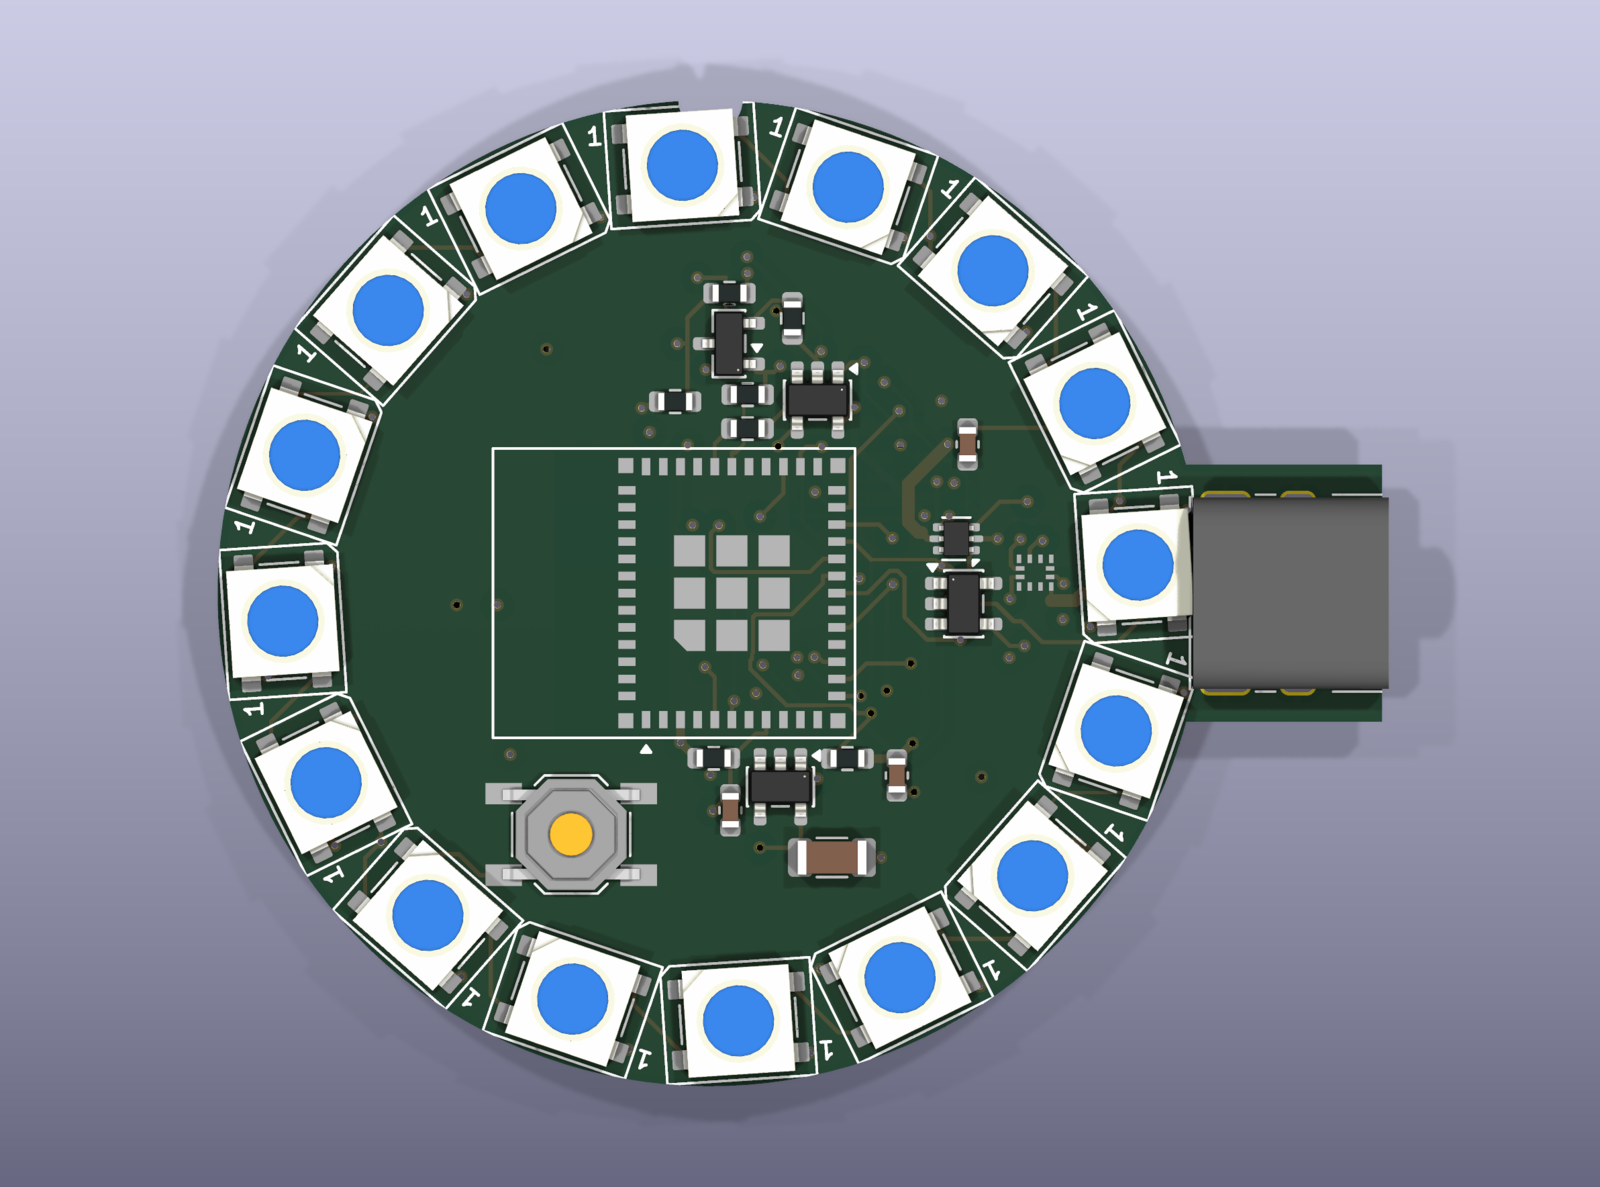
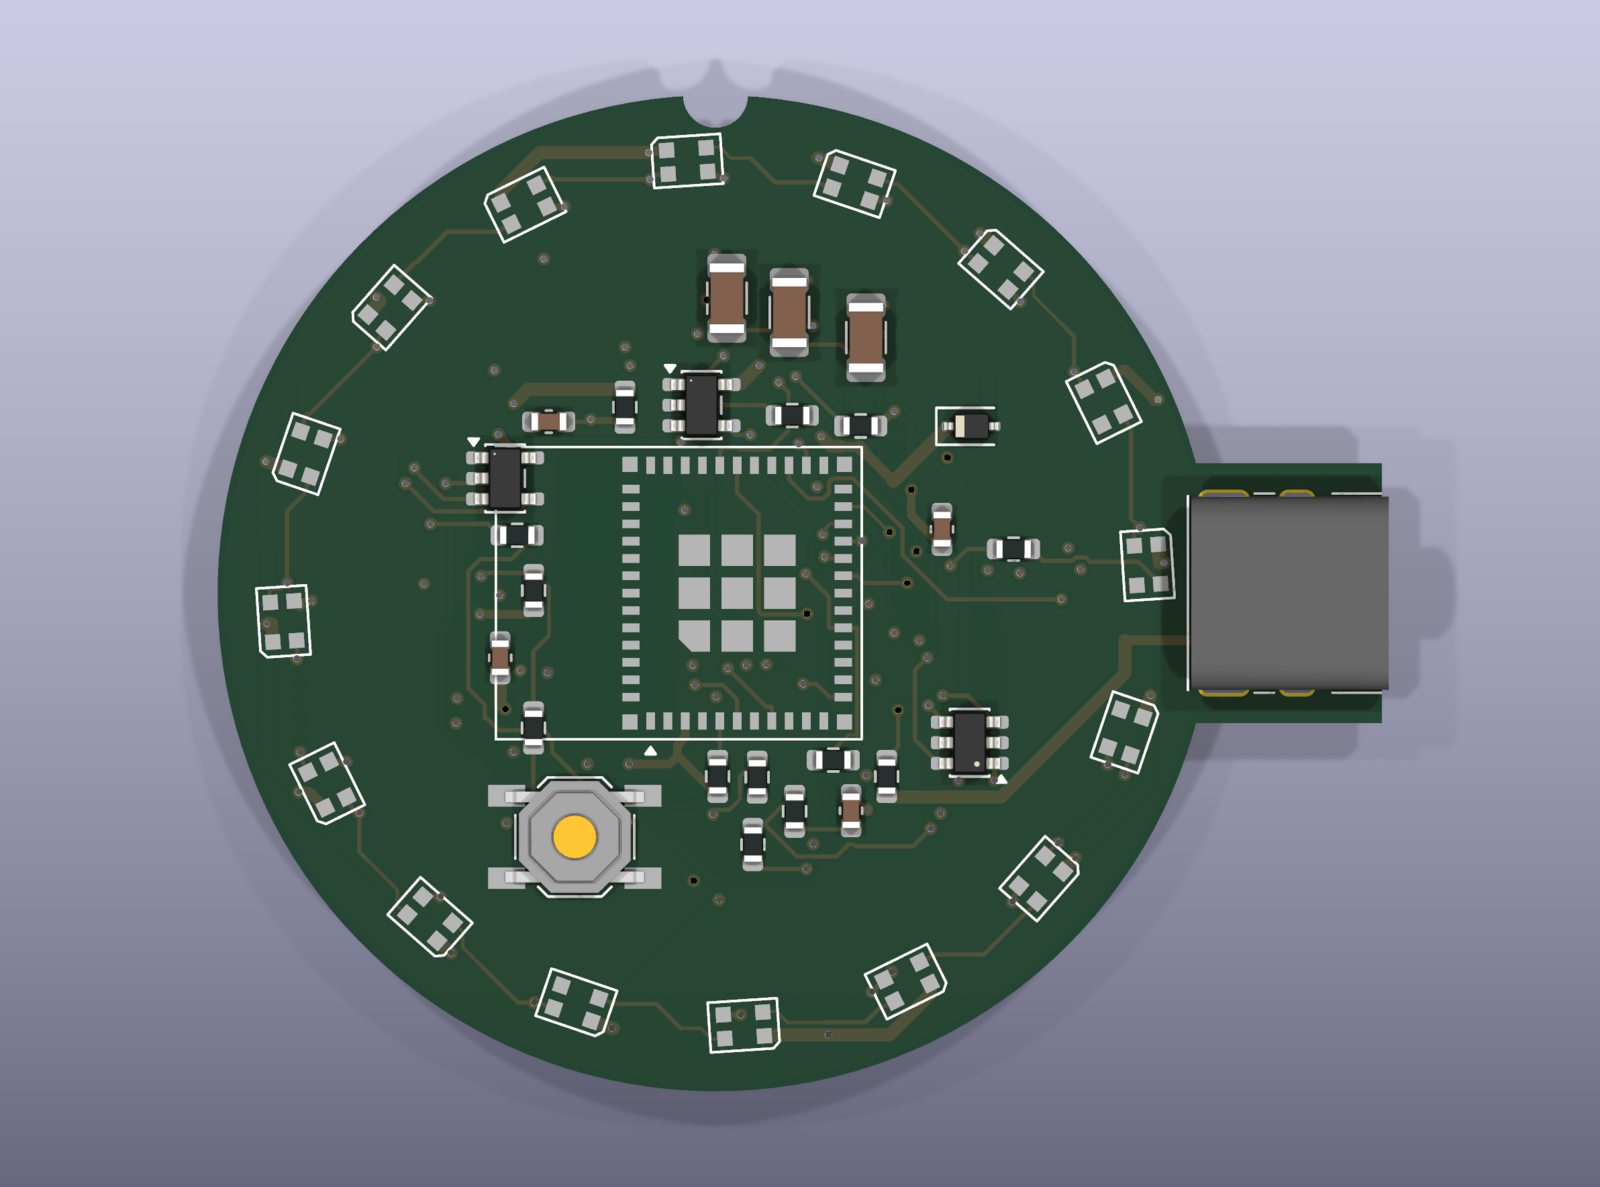
docs: README status, schematic, board and housing images refreshed; routed spike rerun with the AND gate and supply-pin protection; README render script for the housing views (HW-010, MECH-007, ADR-0014, ADR-0018)
Claude-Session: https://claude.ai/code/session_01NnNc9CXaSMwmsPGCK65UHv

Changed region(s): [[0.125, 0.0623, 0.8125, 0.9351]]

diff --git a/mech/analysis/render_views.py b/mech/analysis/render_views.py
@@ -1,0 +1,110 @@
+# SPDX-License-Identifier: Apache-2.0
+"""Draw README views of the housing model from the mesh JSON (matplotlib, Agg backend).
+
+Usage: python3 -I render_views.py <mesh.json> <out dir>
+Output: housing-model-exploded.png (isometric, lid lifted, accessory below) and
+housing-model-back.png (view of the back: bayonet groove with lips, label centre open).
+Tool output only; the images show the generated model, not a photo or a hand drawing.
+"""
+
+import json
+import sys
+from pathlib import Path
+
+import matplotlib
+
+matplotlib.use("Agg")
+import matplotlib.pyplot as plt  # noqa: E402
+import numpy as np  # noqa: E402
+from matplotlib.collections import PolyCollection  # noqa: E402
+
+COLORS = {"base": (0.35, 0.37, 0.40), "lid": (0.55, 0.75, 0.95), "accessory": (0.85, 0.55, 0.25)}
+LIGHT = np.array([0.4, -0.5, 0.75])  # fixed light direction
+LIGHT = LIGHT / np.linalg.norm(LIGHT)
+
+
+def subdivide(tri, max_edge):
+    """Split triangles until every edge is shorter than max_edge (keeps the painter order right)."""
+    while True:
+        e = np.max(
+            [np.linalg.norm(tri[:, i] - tri[:, (i + 1) % 3], axis=1) for i in range(3)], axis=0
+        )
+        big = e > max_edge
+        if not big.any():
+            return tri
+        keep, split = tri[~big], tri[big]
+        a, b, c = split[:, 0], split[:, 1], split[:, 2]
+        ab, bc, ca = (a + b) / 2, (b + c) / 2, (c + a) / 2
+        new = np.concatenate(
+            [np.stack(x, axis=1) for x in ((a, ab, ca), (ab, b, bc), (ca, bc, c), (ab, bc, ca))]
+        )
+        tri = np.concatenate([keep, new])
+
+
+def camera(elev, azim):
+    """Orthographic camera: returns (right, up, toward-viewer) unit vectors."""
+    el, az = np.radians(elev), np.radians(azim)
+    toward = np.array([np.cos(el) * np.cos(az), np.cos(el) * np.sin(az), np.sin(el)])
+    right = np.cross([0, 0, 1], toward)
+    right /= np.linalg.norm(right)
+    up = np.cross(toward, right)
+    return right, up, toward
+
+
+def draw(meshes, placed, path, view):
+    """view = (elevation, azimuth, title, light direction)."""
+    elev, azim, title, light = view
+    right, up, toward = camera(elev, azim)
+    polys, depth, cols = [], [], []
+    for name, (dx, dz) in placed.items():
+        v = np.array(meshes[name]["v"], dtype=float)
+        v[:, 0] += dx
+        v[:, 2] += dz
+        tri = subdivide(v[np.array(meshes[name]["t"])], 3.0)
+        n = np.cross(tri[:, 1] - tri[:, 0], tri[:, 2] - tri[:, 0])
+        n /= np.linalg.norm(n, axis=1, keepdims=True) + 1e-12
+        n *= np.sign(np.sum(n * toward, axis=1, keepdims=True) + 1e-12)  # two-sided light
+        shade = 0.35 + 0.65 * np.clip(n @ light, 0, 1)
+        centre = tri.mean(axis=1)
+        polys.append(np.stack([tri @ right, tri @ up], axis=-1))
+        depth.append(centre @ toward)
+        cols.append(np.clip(shade[:, None] * np.array(COLORS[name])[None, :] * 1.2, 0, 1))
+    polys, depth, cols = np.concatenate(polys), np.concatenate(depth), np.concatenate(cols)
+    order = np.argsort(depth)
+    fig, ax = plt.subplots(figsize=(8, 6), dpi=150)
+    ax.add_collection(
+        PolyCollection(polys[order], facecolors=cols[order], edgecolors=cols[order], lw=0.2)
+    )
+    ax.autoscale()
+    ax.set_aspect("equal")
+    ax.set_axis_off()
+    ax.set_title(title, fontsize=9)
+    fig.savefig(path, bbox_inches="tight", facecolor="white")
+    plt.close(fig)
+
+
+def main(argv):
+    mesh = json.loads(Path(argv[1]).read_text())
+    out = Path(argv[2])
+    out.mkdir(parents=True, exist_ok=True)
+    title = "Housing model, exploded: lid, base, accessory ring (generated by FreeCAD script)"
+    draw(
+        mesh,
+        {"base": (0, 0), "lid": (0, 12), "accessory": (0, -8)},
+        out / "housing-model-exploded.png",
+        (25, -60, title, LIGHT),
+    )
+    title = (
+        "Back of the base: bayonet groove with entry sectors, lips and stops (label centre open)"
+    )
+    draw(
+        mesh,
+        {"base": (0, 0)},
+        out / "housing-model-back.png",
+        (-60, -90, title, LIGHT * np.array([1, 1, -1])),
+    )
+    print("render: wrote", out)
+
+
+if __name__ == "__main__":
+    main(sys.argv)

diff --git a/hw/kicad/spike-gate/src/layout_full.py b/hw/kicad/spike-gate/src/layout_full.py
@@ -153,9 +153,9 @@ PLACE = {
     "SW1": (174.0, 190.0, 0),
     "U10": (158.0, 232.0, 0), "U11": (158.0, 266.0, 0), "R11": (138.0, 269.81, 0),
     "R10": (203.0, 190.0, 90), "C4": (206.0, 205.0, 0),
-    "R_SU1": (302.0, 140.0, 90), "C26": (312.0, 146.0, 0), "DZ1": (322.0, 146.0, 270),
-    "R_SU14": (302.0, 160.0, 90), "DZ14": (322.0, 166.0, 270),
-    "R_SU15": (302.0, 180.0, 90), "DZ15": (322.0, 186.0, 270),
+    "R_SU1": (290.0, 143.0, 90), "C26": (306.0, 149.0, 0), "DZ1": (316.0, 149.0, 270),
+    "R_SU14": (330.0, 143.0, 90), "DZ14": (346.0, 149.0, 270),
+    "R_SU15": (356.0, 143.0, 90), "DZ15": (372.0, 149.0, 270),
 }
 TEXT = {
     "J1": (-7.62, 26.0, "left"), "TVS1": (-3.81, -5.5, "left"), "U6": (6.0, 8.0, "left"),
@@ -335,8 +335,7 @@ def _build():
     s.caption("TPS3840DL40 is a candidate, not chosen", gx(38.1), 164.0, 1.27)
     s.caption("ESP32-C3-MINI-1 module (box uses GPIO names, module pin numbers not drawn)", 15, 172)
     s.caption("Button (HW-007; GPIO5 is not a strapping pin)", 128, 172)
-    s.caption("HOLD_OK is 5 V: buffered to 3.3 V for the MCU", 128, 211)
-    s.caption("OE tied to GND (symbol drawn pointing up)", 160.0, 215.5, 1.0)
+    s.caption("GATE_OK_RB = HOLD_OK AND FAULT_N (ADR-0018 option E); 3.3 V gate, inputs accept 5 V", 128, 211)
     s.caption("OE tied to GND (symbol drawn pointing up)", 160.0, 249.5, 1.0)
     s.caption("LED data: 5 V buffer (HW-002)", 128, 246)
     s.caption("16 LEDs as a chain; the ring geometry is a PCB matter (HW-001)", 200, 172)
@@ -663,7 +662,7 @@ def _build():
     s.pw("GND", ("U10", "3"), True)
 
     # ------------------------------------------------------------ supply-pin protection (HW-010 amendment)
-    s.caption("Supply pins with 6 V maximum (TUSB321, TMUX1101): series resistor, 100 nF, 5.1 V zener", 296, 128, 1.27)
+    s.caption("Supply pins with 6 V maximum (TUSB321, TMUX1101): series resistor, 100 nF, 5.1 V zener", 288, 132, 1.27)
     for rs, dz, vnet, cap in (("R_SU1", "DZ1", "VDD_U1", "C26"), ("R_SU14", "DZ14", "VDD_U14", None),
                               ("R_SU15", "DZ15", "VDD_U15", None)):
         s.pw("VBUS_IC", (rs, "1"), True)

diff --git a/mech/analysis/render_dump_mesh.py b/mech/analysis/render_dump_mesh.py
@@ -1,0 +1,31 @@
+# SPDX-License-Identifier: Apache-2.0
+"""Write triangle meshes of the housing parts to JSON for the README views (FreeCAD, headless).
+
+Run: scripts via mech/render_readme_images.sh (needs the build folder from scripts/ci_mech.sh).
+Reads the STEP files of the generators, writes <out>/mesh.json. Nothing is edited by hand.
+"""
+
+import json
+import os
+
+import Part
+
+BUILD = os.environ.get("MECH_BUILD_DIR", "build/mech")
+OUT = os.environ.get("MECH_RENDER_DIR", "build/mech-render")
+PARTS = {"base": "base.step", "lid": "lid.step", "accessory": "coupon_accessory_ring.step"}
+TOL = 0.05  # mm
+
+
+def main():
+    os.makedirs(OUT, exist_ok=True)
+    mesh = {}
+    for name, f in PARTS.items():
+        shape = Part.read(os.path.join(BUILD, f))
+        verts, tris = shape.tessellate(TOL)
+        mesh[name] = {"v": [[v.x, v.y, v.z] for v in verts], "t": [list(t) for t in tris]}
+        print(f"render: {name} {len(verts)} vertices, {len(tris)} triangles")
+    with open(os.path.join(OUT, "mesh.json"), "w") as fh:
+        json.dump(mesh, fh)
+
+
+main()

diff --git a/README.md b/README.md
@@ -84,13 +84,13 @@ The project has done a lot of thinking and some experiments, but **no product co
 
 | Area | State |
 |------|-------|
-| Requirements | Drafted (needs, system, software, hardware, mechanical). **None approved.** |
-| Architecture decisions | 16 decision records written. **Accepted:** licensing (ADR-0015, which supersedes ADR-0013) and the hardware gate for the high current step (ADR-0016, which replaces the sensing decision of ADR-0009). The other 12 are **Proposed**. They cover platform, LED drive, mapping model, provisioning, update and boot security, transport, USB-C power input and current limit, housing, the hardware design flow, licensing and the mounting interface. |
+| Requirements | Written for needs, system, software, hardware and mechanics (101 entries). **18 are approved by the owner** (all 9 mechanical, 5 software, 3 hardware including the current-limit gate HW-010, 1 system); the rest are drafts. |
+| Architecture decisions | 19 decision records. **17 are accepted** by the owner (ADR-0011, the housing, only for the prototype); 2 are superseded. Recent decisions: first antenna layout (ADR-0003), annular back bayonet (ADR-0014), AND gate for the fault readback (ADR-0018) and a standard-package regulator with a firmware current limit (ADR-0019). |
 | Risk register | Open. Each risk has a mitigation and a verification link. |
 | Reviews | Independent "goldfish" reviews recorded for the system design, the first spike plan and the hardware flow decision ([`docs/reviews/`](docs/reviews/)). |
-| Software | Zephyr 4.5.0 workspace pinned. A first build check ran. A mapping extractor and an LED current limiter were tried as **PC-only prototypes**; the results are in the reports, the code is not in `sw/`. |
-| Hardware | A scripted KiCad flow produced a **spike** full-board schematic (USB-C input, current-limit gate, hold-off, ESP32-C3 module, 16 LEDs) and a script-generated 4-layer board on the mechanical-spike outline, routed with Freerouting. The board is **not fully routed and not DRC clean**, and nothing is reviewed or approved. Part datasheet evidence is recorded in a schema, **none verified**. **No product schematic or layout yet.** |
-| Mechanics | A FreeCAD housing concept (opaque base, translucent lid, about 53 mm) was modelled with placeholder parts. **Nothing printed or fit-tested.** |
+| Software | Zephyr 4.5.0 workspace pinned. The input-current gate logic (`sw/app/src/gate.c`) has **20 host unit tests that pass** on `native_sim`; nothing runs on a board. A mapping extractor and an LED current limiter were tried as PC-only prototypes (results in the reports, code not in `sw/`). |
+| Hardware | A scripted KiCad flow produces a **spike** full-board schematic (USB-C input, current-limit gate, hold-off, AND-gate fault readback, supply-pin surge protection, ESP32-C3 module, 16 LEDs) and a 4-layer board on the mechanical-spike outline, routed with Freerouting. The board is **not fully routed and not DRC clean**, and nothing is reviewed. Part datasheet evidence is recorded in a schema, **none verified**. The surge on the 5 V side is still to be **measured** on a built board. **No product schematic or layout yet.** |
+| Mechanics | FreeCAD scripts generate the housing (base with USB-C window, button hole, PCB posts and snap hooks, annular back bayonet with lock lips and a mating accessory ring, lid with snap bumps), print coupons for the diffuser and the bayonet, and a tolerance check with tests. **Nothing printed or fit-tested**; the tolerances are assumptions. |
 | Regulatory | Applicability analysis and compliance matrix started. No evidence collected, no declaration made. |
 
 The reports behind these lines are in [`docs/verification/reports/`](docs/verification/reports/).
@@ -107,24 +107,24 @@ All images are generated from text sources or tool exports; none is hand-drawn. 
 
 | Schematic (spike), part 1: USB-C input, CC detection, current-step gate, hold-off, regulator |
 |---|
-| <a href="docs/verification/reports/images/spike-schematic-gate-power.png"><img src="docs/verification/reports/images/spike-schematic-gate-power.png" alt="Left part of the spike schematic: USB-C receptacle, TUSB321, 74LVC1G gates, TPS2553 current limit with two ILIM resistors and 2N7002 switches, TPS3840 hold-off timer, 3.3 V regulator box" width="900"></a> |
+| <a href="docs/verification/reports/images/spike-schematic-gate-power.png"><img src="docs/verification/reports/images/spike-schematic-gate-power.png" alt="Left part of the spike schematic: USB-C receptacle, TUSB321, 74LVC1G gates, two TMUX1101 switches for the current-limit steps, TPS2553 current limit, TPS3840 hold-off timer, 3.3 V regulator box, and the supply-pin protection (resistor, 100 nF, 5.1 V zener)" width="900"></a> |
 
-| Schematic (spike), part 2: ESP32-C3 module, button, 5 V buffers, 16 LEDs |
+| Schematic (spike), part 2: ESP32-C3 module, button, AND-gate fault readback, LED buffer, 16 LEDs |
 |---|
-| <a href="docs/verification/reports/images/spike-schematic-mcu-leds.png"><img src="docs/verification/reports/images/spike-schematic-mcu-leds.png" alt="Lower part of the spike schematic: ESP32-C3-MINI-1 module, button, level buffers and a chain of 16 LEDs in two rows of eight" width="900"></a> |
+| <a href="docs/verification/reports/images/spike-schematic-mcu-leds.png"><img src="docs/verification/reports/images/spike-schematic-mcu-leds.png" alt="Lower part of the spike schematic: ESP32-C3-MINI-1 module, button, the AND gate that combines HOLD_OK and FAULT_N, the LED data buffer and a chain of 16 LEDs in two rows of eight" width="900"></a> |
 | Two crops of one single-sheet schematic, exported with `kicad-cli`; click an image for full size. Some labels overlap (for example C1 and C1B) and part values are open (`tbd`). The schematic is a spike under ADR-0012 (Proposed), not reviewed and not approved. |
 
 | Board, 4 layers, top view (3D render) | Board, all copper layers and silkscreen |
 |---|---|
 | <img src="docs/verification/reports/images/spike-pcb-4layer-top3d.png" alt="Round green board with a ring of 16 square LED footprints, an ESP32 module, a button and a USB-C receptacle tab on the right" width="420"> | <img src="docs/verification/reports/images/spike-pcb-4layer-layers.png" alt="Copper layers of the round board in colour: ground pours, tracks and vias" width="420"> |
-| Generated by script from the schematic netlist on the outline of the mechanical spike, routed with Freerouting v2.5.0. | Two numbers, two stages. Freerouting left **40 nets unrouted** (39 in an earlier run; not deterministic). After plane stitching, the KiCad design-rule check of this run reports **252 violations and 57 unconnected items on 4 nets** (+5V, GND, CC2, one strap net); schematic parity 0 differences. The strict waiver check (475 waived items) ran on an earlier routing and was **not** rerun on this one. A spike result, **not** a clean board. |
+| Generated by script from the schematic netlist on the outline of the mechanical spike, routed with Freerouting v2.5.0. The netlist now has the AND gate and the supply-pin protection. | One run, two stages (routing is not deterministic). Freerouting started with 266 unrouted connections and ended with **48 unrouted** and 0 violations of its own rules. After plane stitching, KiCad reports **247 findings in total: 46 design-rule violations, 86 unconnected items on 4 nets** (+5V is clear; /CC1, /GATE_OK_RB, GND and one 887 k net remain) and 110 schematic-parity warnings (the placeholder box symbols and stand-in footprints). The strict waiver check **fails**: 86 unconnected items, 6 track-width errors, 9 dangling vias and 1 hole-to-hole warning are not on the waiver list. A spike result, **not** a clean board. |
 
 Regenerate with [`hw/kicad/spike-gate/render_readme_images.sh`](hw/kicad/spike-gate/render_readme_images.sh). The 3D render has no component models for most parts and is not a fit check. See [`spike-pcb-placement-routing.md`](docs/verification/reports/spike-pcb-placement-routing.md).
 
-| Housing concept B (FreeCAD model, placeholder parts) |
-|---|
-| <img src="docs/verification/reports/images/spike-mech-housing-concept-b.png" alt="Flat round housing with a translucent lid and a cross-section showing the board, posts and lid joint" width="480"> |
-| From the mechanical spike. The concept is **under revision**: the owner decided that the unit is mounted horizontal and vertical, with a mounting interface on the back ([ADR-0014](docs/decisions/ADR-0014-back-mounting-interface.md)). |
+| Housing model (FreeCAD script), exploded | Back of the base |
+|---|---|
+| <img src="docs/verification/reports/images/housing-model-exploded.png" alt="Exploded view of the generated housing model: a flat round lid, the base cup with a USB-C window, a button hole, PCB posts and hooks, and below it the accessory ring" width="480"> | <img src="docs/verification/reports/images/housing-model-back.png" alt="Back of the base with the annular bayonet groove: three entry sectors, lock lips and stops, and the open centre for the label" width="420"> |
+| Generated by [`mech/freecad/housing.py`](mech/freecad/housing.py) and [`accessory.py`](mech/freecad/accessory.py), drawn by [`mech/render_readme_images.sh`](mech/render_readme_images.sh). Parts: lid with snap bumps, base with USB-C window, button hole (working values, the switch is not chosen), posts, snap hooks and the bayonet groove with lock lips, stop and detent; the orange ring is the accessory with three T-lugs. The model passes its own checks (valid solids, no overlap, board fits, the lock holds and stops). **Nothing is printed or fit-tested**; the release tab is not modelled. Results: [`mech-housing-first-model.md`](docs/verification/reports/mech-housing-first-model.md). |
 
 ## Roadmap
 

diff --git a/docs/verification/reports/spike-pcb-placement-routing.md b/docs/verification/reports/spike-pcb-placement-routing.md
@@ -175,3 +175,9 @@ Not run on the new board: `src/route_grid.py` knows only the old rectangular out
 ### 10.10 Owner items
 Choose the layer count (the evidence is in 10.5 and 10.6) and whether ADR-0012 covers a 4-layer board. Decide the receptacle conflict (10.2: 59.8 mm against the 58 mm limit; options: smaller LED, shifted LED phase, larger limit, variant V2). Choose a side-actuated button. Decide how to treat the antenna keep-out against the LED ring (ADR-0003). Confirm that Freerouting v2.5.0 may be used in this flow, and the via-in-pad rule for the module ground pads.
 
+
+## Update 2026-11-07: rerun with the AND gate and the supply-pin protection (HW-010, ADR-0018)
+- Command: `run_full.sh`, then `run_pcb.sh <dir> <out> 4 inner` with Freerouting v2.5.0 (pinned jar, KiCad 10.0.6). The placer put the new parts (R_SU1, R_SU14, R_SU15, C26, DZ1, DZ14, DZ15, the AND gate U10) without a change to the placement rules.
+- Observed: unplaced-board DRC (4 layers, no router): only `unconnected_items` above the waiver (266 > 241). Routed: Freerouting started with 266 unrouted connections and finished with 48 unrouted and 0 violations in 221 s; M1 (routed board, plane nets excluded) 3 unrouted. Stitched: 247 DRC findings = 46 violations + 86 unconnected items on 4 nets (/CC1, /GATE_OK_RB, GND, one 887 k net) + 110 schematic-parity warnings (84 net_conflict, 26 footprint_symbol_mismatch, the known placeholder and stand-in cases).
+- The strict waiver check **fails**: 86 unconnected items, 6 track_width errors, 9 via_dangling warnings and 1 hole_to_hole warning are not on the waiver list. This is worse than the earlier run on unconnected items and has not been analysed. Routing is not deterministic.
+- Not done: the net fixture `tests/data/full.net` and the committed DRC fixtures are not refreshed; no manufacturing check; the new parts are not placed with intent (the annealer did it).

diff --git a/CHANGELOG.md b/CHANGELOG.md
@@ -14,6 +14,7 @@ Hardware and mechanical revisions are named in the entries (for example "hardwar
 - CI: the licence-map check lists the TLV75733P and TMUX1101 evidence files as data (HW-012, ADR-0015).
 
 ### Added
+- README: status table, schematic and board images and captions refreshed for the spike board with the AND gate and the supply-pin protection (one routed run, strict check fails), new housing model images (exploded and back view) drawn by `mech/render_readme_images.sh`; FreeCAD views are tool output (HW-010, MECH-007, ADR-0014).
 - Hardware spike schematic: SN74LVC1G08 AND gate for GATE_OK_RB (HOLD_OK and FAULT_N), GPIO4 and GPIO1 freed, series resistor, 100 nF and BZX84C5V1 zener at the TUSB321 and TMUX1101 supply pins; six new tests; PCB stage not rerun (HW-010, HW-012, ADR-0016, ADR-0018).
 - Hardware: datasheet evidence for the BZX84C5V1 zener and the SN74LVC1G08 AND gate (quotes checked against the PDF pages); surge analysis rerun with the zener datasheet corners (HW-010, HW-012, ADR-0016, ADR-0018).
 - Mechanics: housing model completed with lid spigot and snap bumps, PCB posts, button hole and a bayonet detent; tolerance check for the spigot, skirt and ledge (MECH-001, MECH-004, MECH-005, MECH-007, MECH-009).
